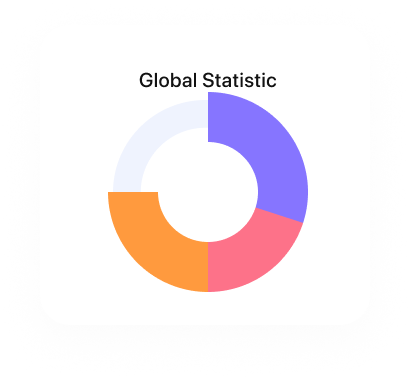
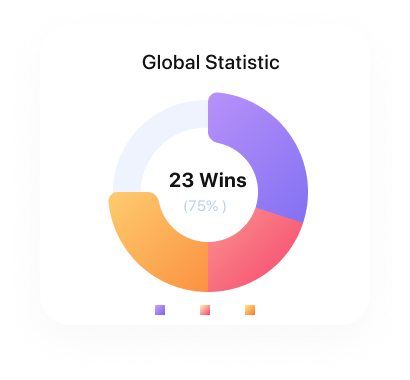
section duo card finalizada

diff --git a/index.html b/index.html
@@ -105,10 +105,11 @@
                         <h2 class="statis">Statistic</h2>
 
                         <div class="duo-card">
-                            <div class="card-data">
-                                <img src="img/Statistic Year-1.png" alt="img de estasticas de datas">
-                                <img src="img/Global Statistic (1).png" alt="img de um grafico">
-                            </div>
+                            
+                                <div class="data">
+                                    <img class="aaa" src="img/Statistic Year-1.png" alt="img de estasticas de datas">
+                                    <img class="iii" src="img/Global Statistic.png " alt="img de um grafico">
+                                </div>
                         </div>
 
                         <h2 class="rank">Rankings</h2>

diff --git a/styles/live.css b/styles/live.css
@@ -121,3 +121,41 @@
         }
     }
 }
+
+.statis {
+    margin-block: 25px;
+    color: var(--dark-purple);
+    font-size: 20px;
+    font-weight: 700;
+    font-family: sans-serif;
+}
+
+/*  cards duplos  */
+
+.duo-card {
+    width: 650px;
+    flex-shrink: 0;
+    border: 1px solid blue;
+    position: relative;
+   
+    
+
+    .data {
+    display: flex;
+    align-items: flex-start;
+
+    
+
+        .aaa,
+        .iii {
+            flex: 1;
+            /* height: 300px; */
+        }
+
+        .iii {
+            position: relative;
+            top: -24px;
+            right: 27px;
+        }
+    }
+}
